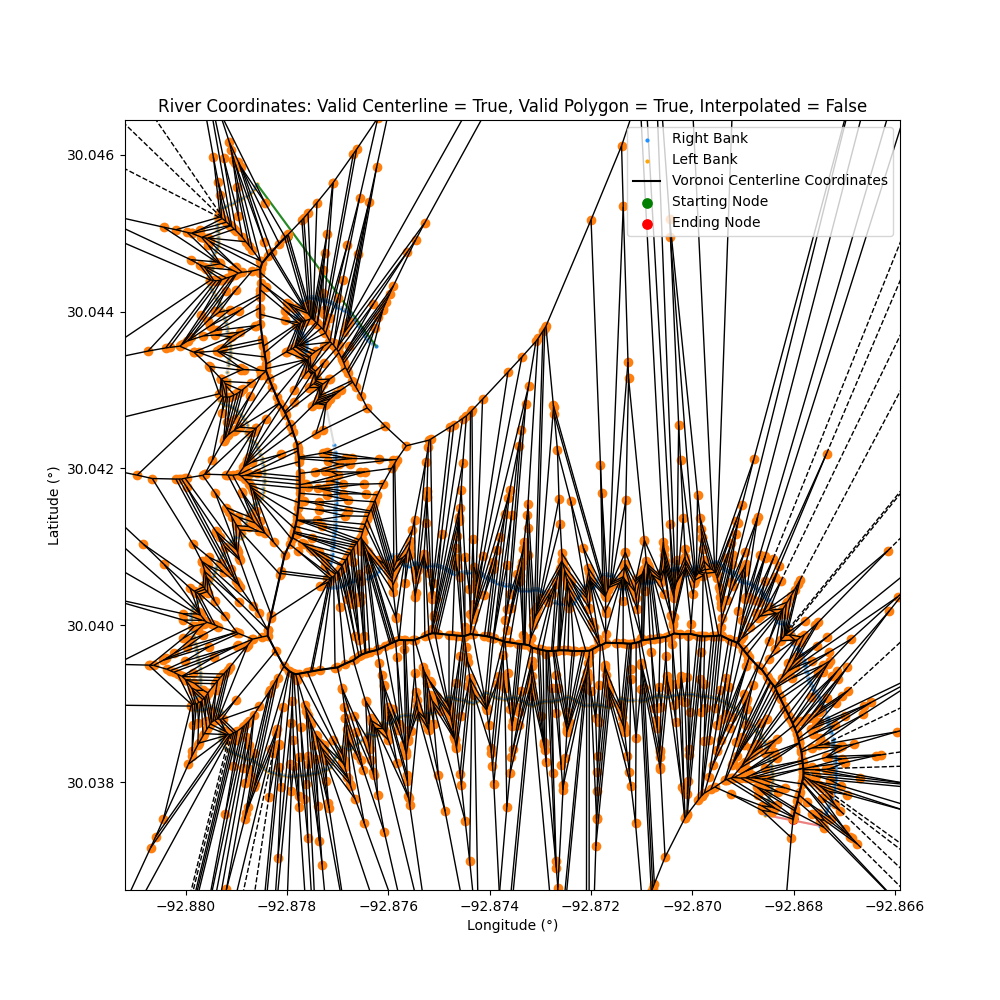
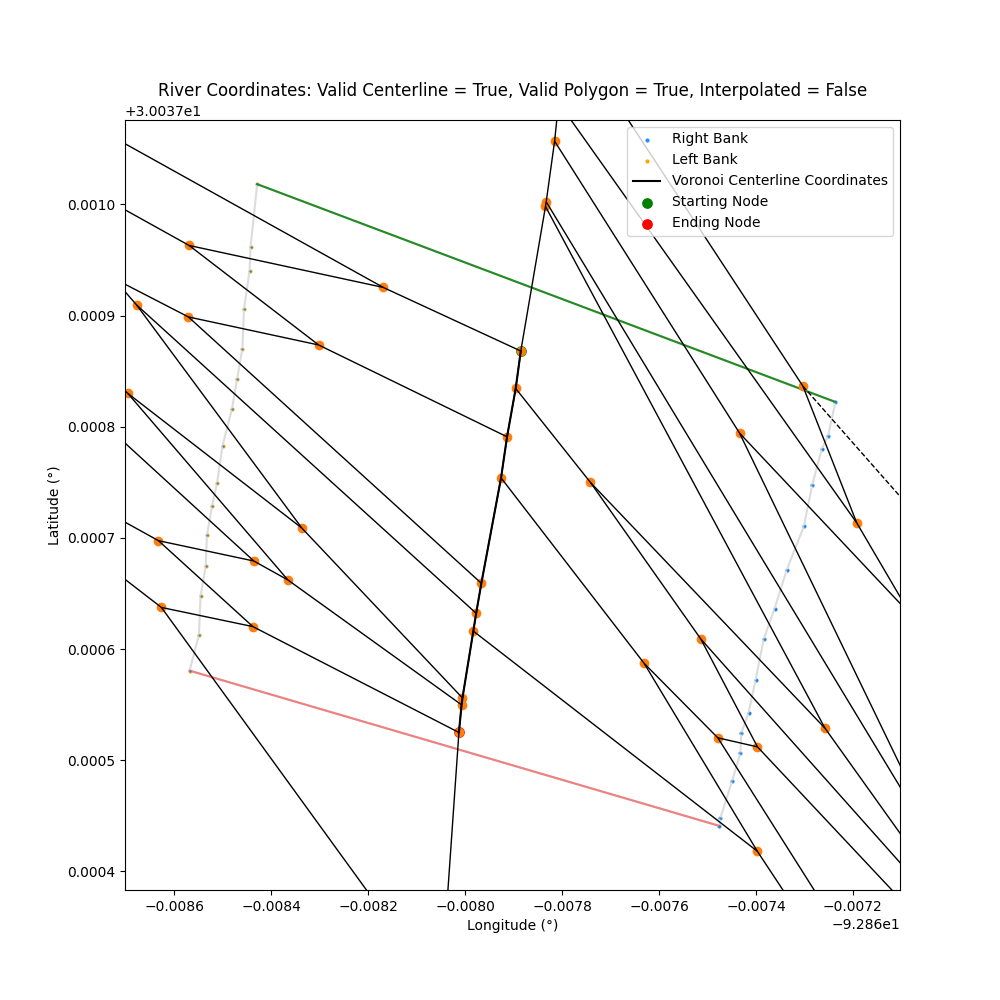
short river display_voronoi README example

diff --git a/generate_readme_diagrams.py b/generate_readme_diagrams.py
@@ -153,7 +153,7 @@ if __name__ == "__main__":
         save_plot_name="data/doc_examples/river_marker_type_scatter.png",
         show_plot=is_debug)
     ro_550.plotCenterline(
-        centerline_color="purple",
+        centerline_color="palegreen",
         save_plot_name="data/doc_examples/river_centerline_color.png",
         show_plot=is_debug)
     ro_550.plotCenterline(
@@ -173,7 +173,11 @@ if __name__ == "__main__":
         save_plot_name=
         "data/doc_examples/river_display_all_possible_paths_true.png",
         show_plot=is_debug)
-    ro_550.plotCenterline(
+    ro_15.plotCenterline(
+        display_voronoi=False,
+        save_plot_name="data/doc_examples/river_display_voronoi_false.png",
+        show_plot=is_debug)
+    ro_15.plotCenterline(
         display_voronoi=True,
         save_plot_name="data/doc_examples/river_display_voronoi_true.png",
         show_plot=is_debug)

diff --git a/README.md b/README.md
@@ -446,7 +446,7 @@ Display centerline plot as either line or scatter
 
 Change the color of the centerline, defaults to black
 
-| centerline_color="black" | centerline_color="purple" |
+| centerline_color="black" | centerline_color="palegreen" |
 | ------------- | ------------- |
 | ![centerline_color_black+png](https://raw.githubusercontent.com/cyschneck/centerline-width/main/data/doc_examples/river_coords_centerline.png) | ![centerline_color_purple+png](https://raw.githubusercontent.com/cyschneck/centerline-width/main/data/doc_examples/river_centerline_color.png) |
 
@@ -480,7 +480,7 @@ Overlay Voronoi diagram used to generate centerline, defaults to False
 
 | display_voronoi=False | display_voronoi=True |
 | ------------- | ------------- |
-| ![display_voronoi_default+png](https://raw.githubusercontent.com/cyschneck/centerline-width/main/data/doc_examples/river_coords_centerline.png) | ![display_voronoi_true+png](https://raw.githubusercontent.com/cyschneck/centerline-width/main/data/doc_examples/river_display_voronoi_true.png) |
+| ![display_voronoi_default+png](https://raw.githubusercontent.com/cyschneck/centerline-width/main/data/doc_examples/river_display_voronoi_false.png) | ![display_voronoi_true+png](https://raw.githubusercontent.com/cyschneck/centerline-width/main/data/doc_examples/river_display_voronoi_true.png) |
 
 
 **coordinate_unit**
